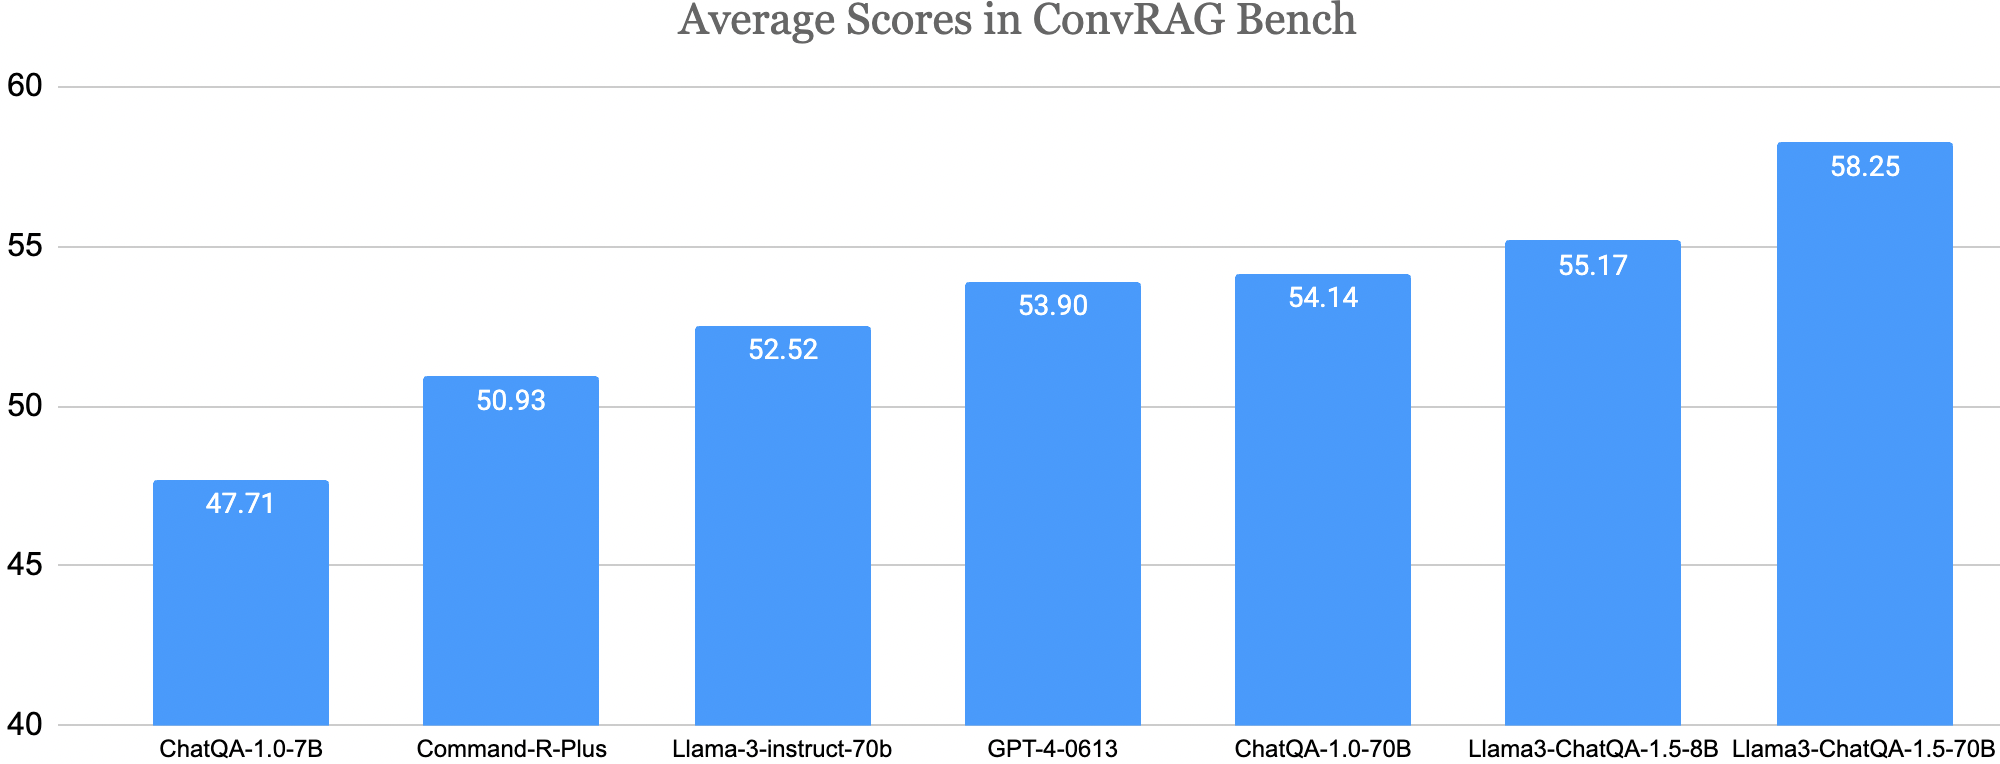
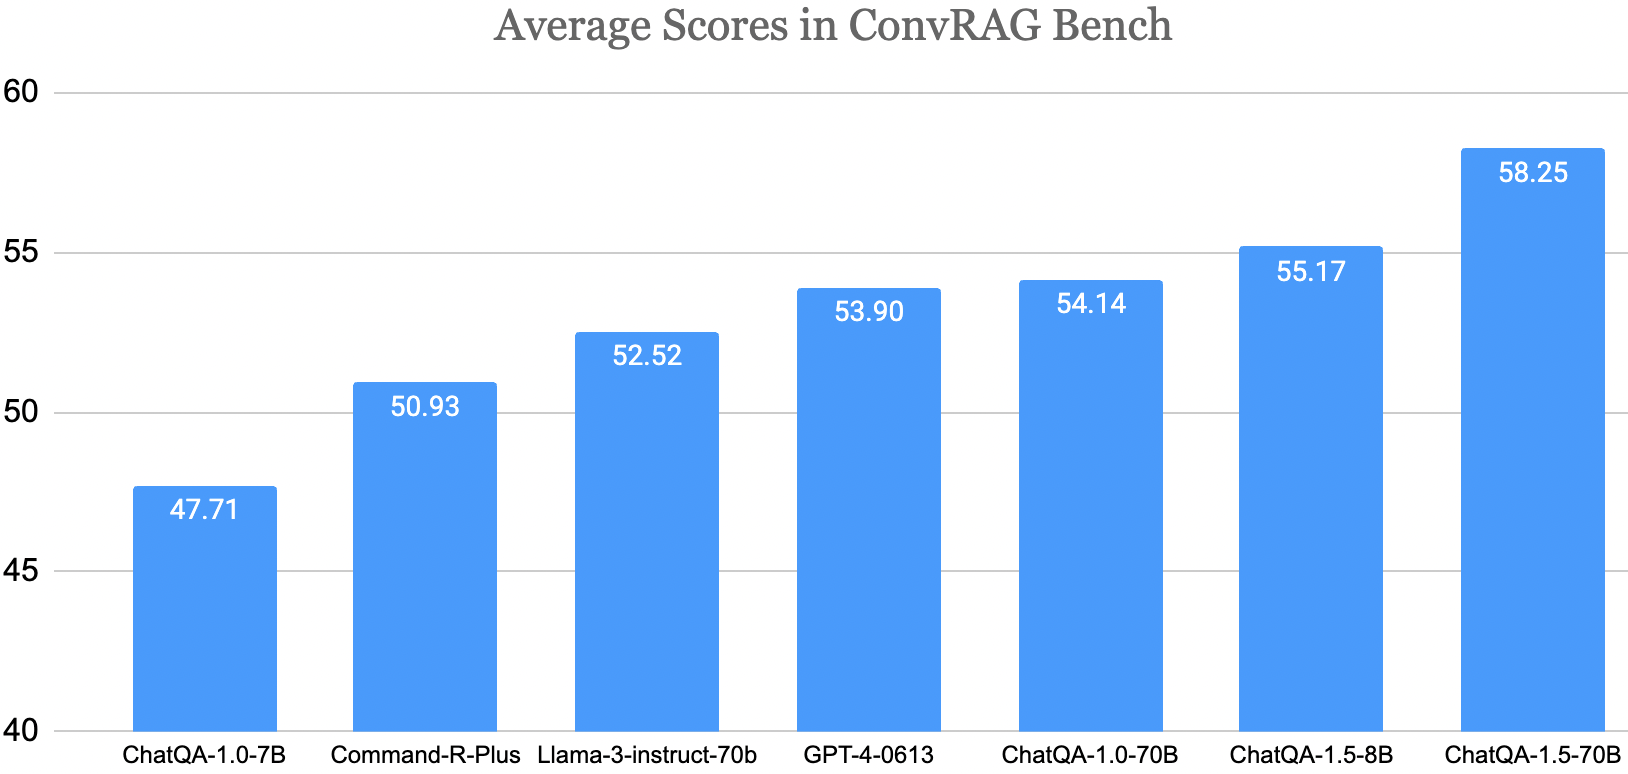
update web

diff --git a/index.html b/index.html
@@ -33,7 +33,7 @@
       }
 
       .img-convrag {
-        max-width: 96%; /* Set the maximum width of the image to 100% */
+        max-width: 90%; /* Set the maximum width of the image to 100% */
         height: auto; /* Ensure the aspect ratio of the image is maintained */
       }
 
@@ -58,11 +58,10 @@
 
   <div class="container">
     <br>
-    <h2>Introducing Llama3-ChatQA-1.5: Surpassing GPT-4 on Conversational QA and RAG</h2>
+    <h2>Introducing ChatQA-1.5: Surpassing GPT-4 on Conversational QA and RAG</h2>
     <h4> <a href="https://huggingface.co/nvidia/Llama3-ChatQA-1.5-70B" class="custom-link">Model</a> &ensp; <a href="https://huggingface.co/datasets/nvidia/ConvRAG-Bench" class="custom-link">Evaluation Data</a> &ensp; <a href="https://huggingface.co/datasets/nvidia/ChatQA-Training-Data" class="custom-link">Training Data</a> &ensp; <a href="https://huggingface.co/nvidia/dragon-multiturn-query-encoder" class="custom-link">Retriever</a> &ensp; <a href="https://arxiv.org/abs/2401.10225" class="custom-link">Paper</a>  </h4>
     <p>
-    Today, we release Llama3-ChatQA-1.5, which excels at conversational question answering (QA) and retrieval-augmented generation (RAG). The Llama3-ChatQA-1.5-8B and Llama3-ChatQA-1.5-70B use an improved training recipe from <a href="https://arxiv.org/abs/2401.10225" class="custom-link">ChatQA-1.0</a>, and are built on the top of Llama3-8B and Llama3-70B base models. Specifically, we incorporate more conversational QA data to enhance its tabular and arithmatic calculation capability.
-    We share the model weights, evaluation data, training data, and SFT recipe for future study.
+    Today, we release ChatQA-1.5, which excels at conversational question answering (QA) and retrieval-augmented generation (RAG). ChatQA-1.5 is developed using an improved training recipe from <a href="https://arxiv.org/abs/2401.10225" class="custom-link">ChatQA-1.0</a>, and it is built on the top of the <a href="https://huggingface.co/meta-llama/Meta-Llama-3-8B" class="custom-link">Llama-3 base model</a>. Specifically, we incorporate more conversational QA data to enhance its tabular and arithmetic calculation capability. ChatQA-1.5 has two variants: Llama3-ChatQA-1.5-8B and Llama3-ChatQA-1.5-70B. We share the model weights, evaluation data, training data, and SFT recipe for future study.
     </p>
 
     <h3>ConvRAG Bench</h3>
@@ -84,13 +83,13 @@
       <thead>
         <tr>
           <th class="tg-baqh"></th>
-          <th class="tg-baqh">GPT-3.5-turbo-0613</th>
-          <th class="tg-baqh">Command-R-Plus</th>
-          <th class="tg-baqh">Llama-3-instruct-70b</th>
-          <th class="tg-baqh">GPT-4-0613</th>
-          <th class="tg-baqh">ChatQA-1.0-70B</th>
-          <th class="tg-baqh">Llama3-ChatQA-1.5-8B</th>
-          <th class="tg-baqh">Llama3-ChatQA-1.5-70B</th>
+          <th class="tg-baqh">&nbsp;&nbsp;GPT-3.5-turbo-0613&nbsp;&nbsp;</th>
+          <th class="tg-baqh">&nbsp;&nbsp;Command-R-Plus&nbsp;&nbsp;</th>
+          <th class="tg-baqh">&nbsp;&nbsp;Llama-3-instruct-70b&nbsp;&nbsp;</th>
+          <th class="tg-baqh">&nbsp;&nbsp;GPT-4-0613&nbsp;&nbsp;</th>
+          <th class="tg-baqh">&nbsp;&nbsp;ChatQA-1.0-70B&nbsp;&nbsp;</th>
+          <th class="tg-baqh">&nbsp;&nbsp;ChatQA-1.5-8B&nbsp;&nbsp;</th>
+          <th class="tg-baqh">&nbsp;&nbsp;ChatQA-1.5-70B&nbsp;&nbsp;</th>
         </tr>
       </thead>
       <tbody>
@@ -118,7 +117,7 @@
           <th class="tg-baqh"></th>
           <th class="tg-baqh">&nbsp;&nbsp;&nbsp;Command-R-Plus&nbsp;&nbsp;&nbsp;</th>
           <th class="tg-baqh">&nbsp;&nbsp;&nbsp;Llama3-instruct-70b&nbsp;&nbsp;&nbsp;</th>
-          <th class="tg-baqh">&nbsp;&nbsp;&nbsp;Llama3-ChatQA-1.5-70B&nbsp;&nbsp;&nbsp;</th>
+          <th class="tg-baqh">&nbsp;&nbsp;&nbsp;ChatQA-1.5-70B&nbsp;&nbsp;&nbsp;</th>
         </tr>
       </thead>
       <tbody>
